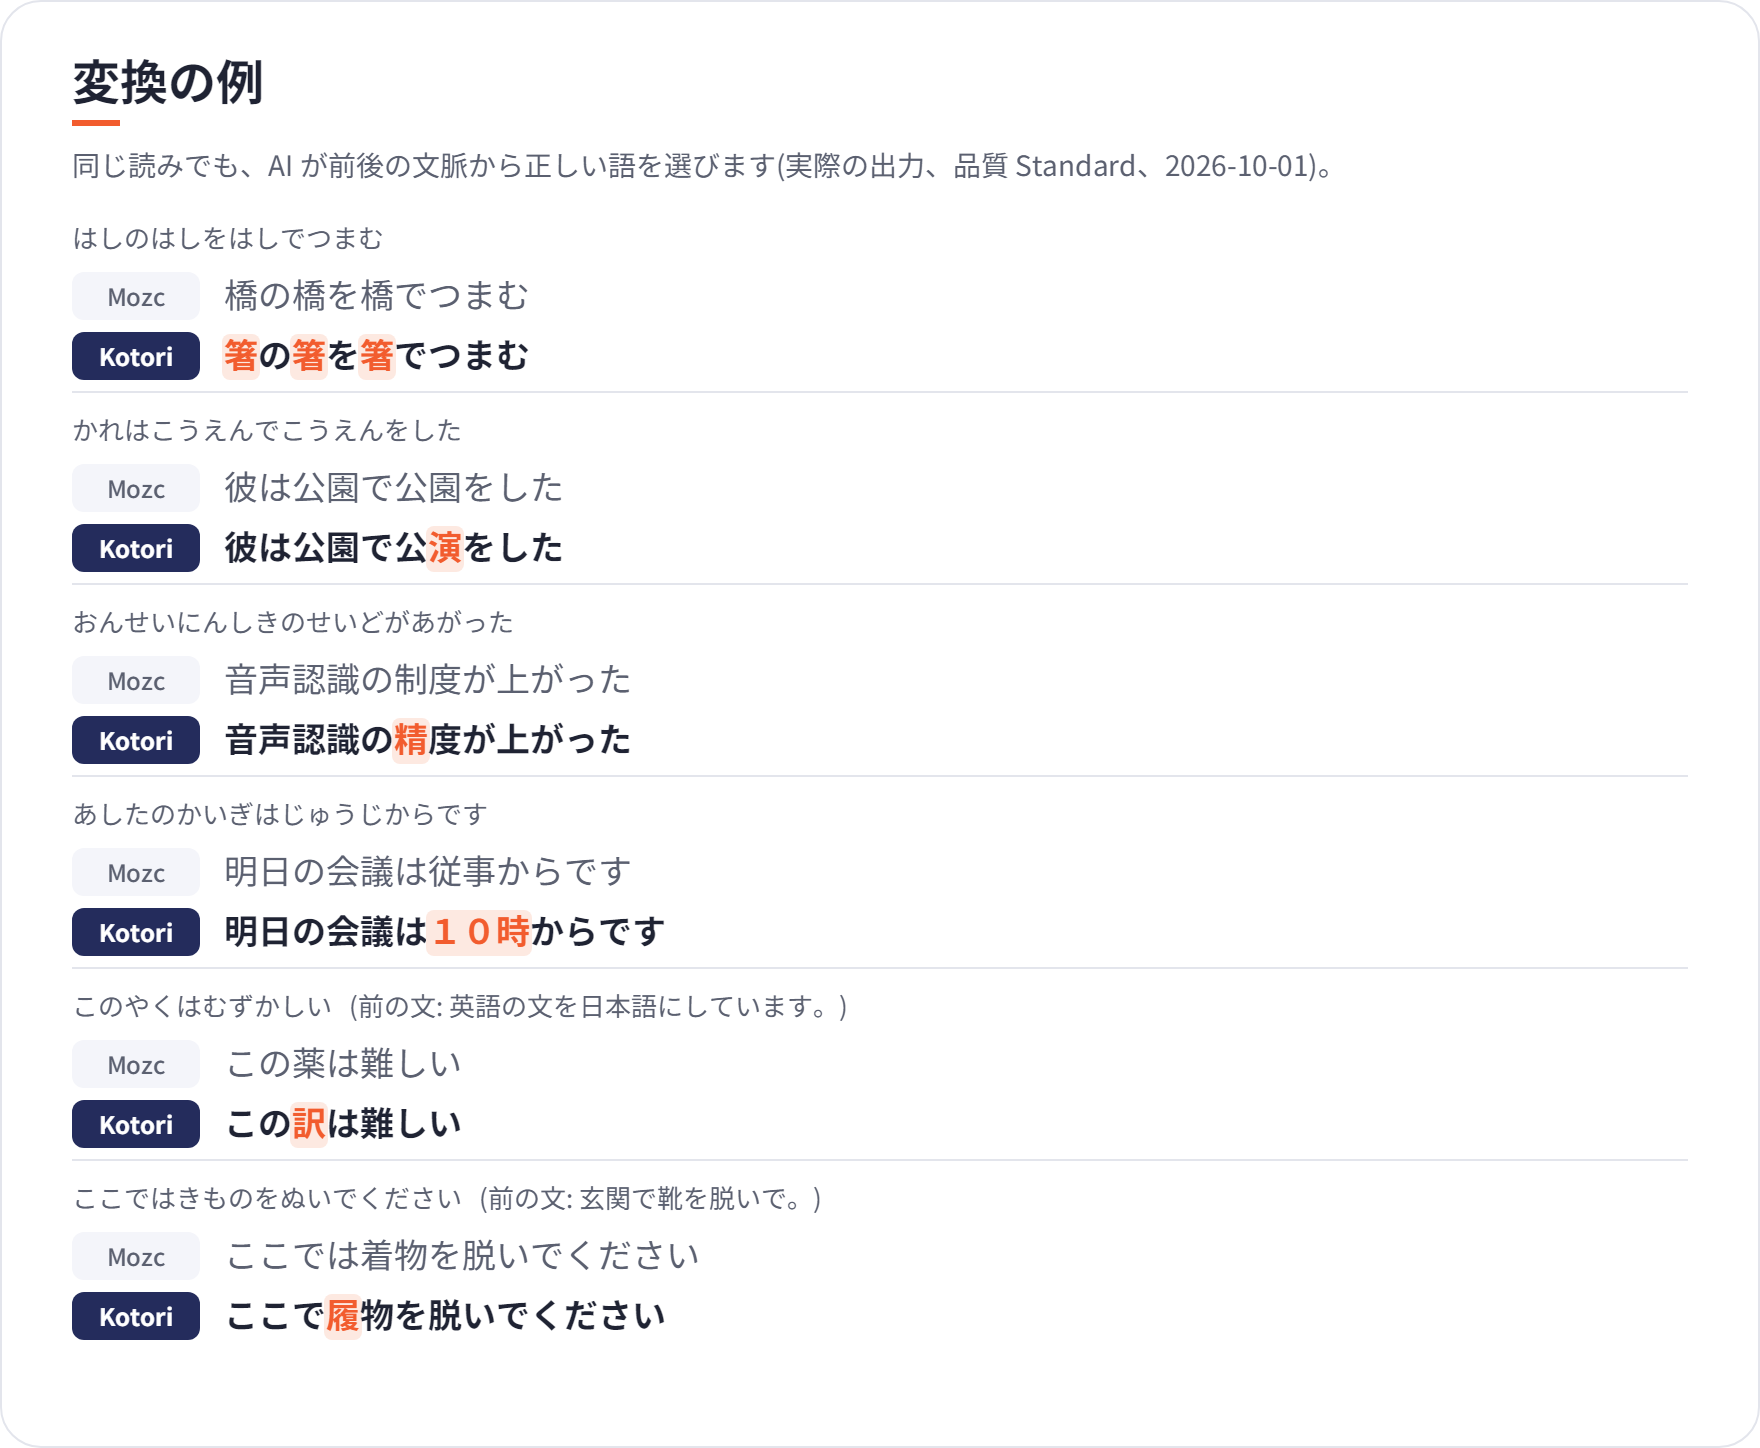
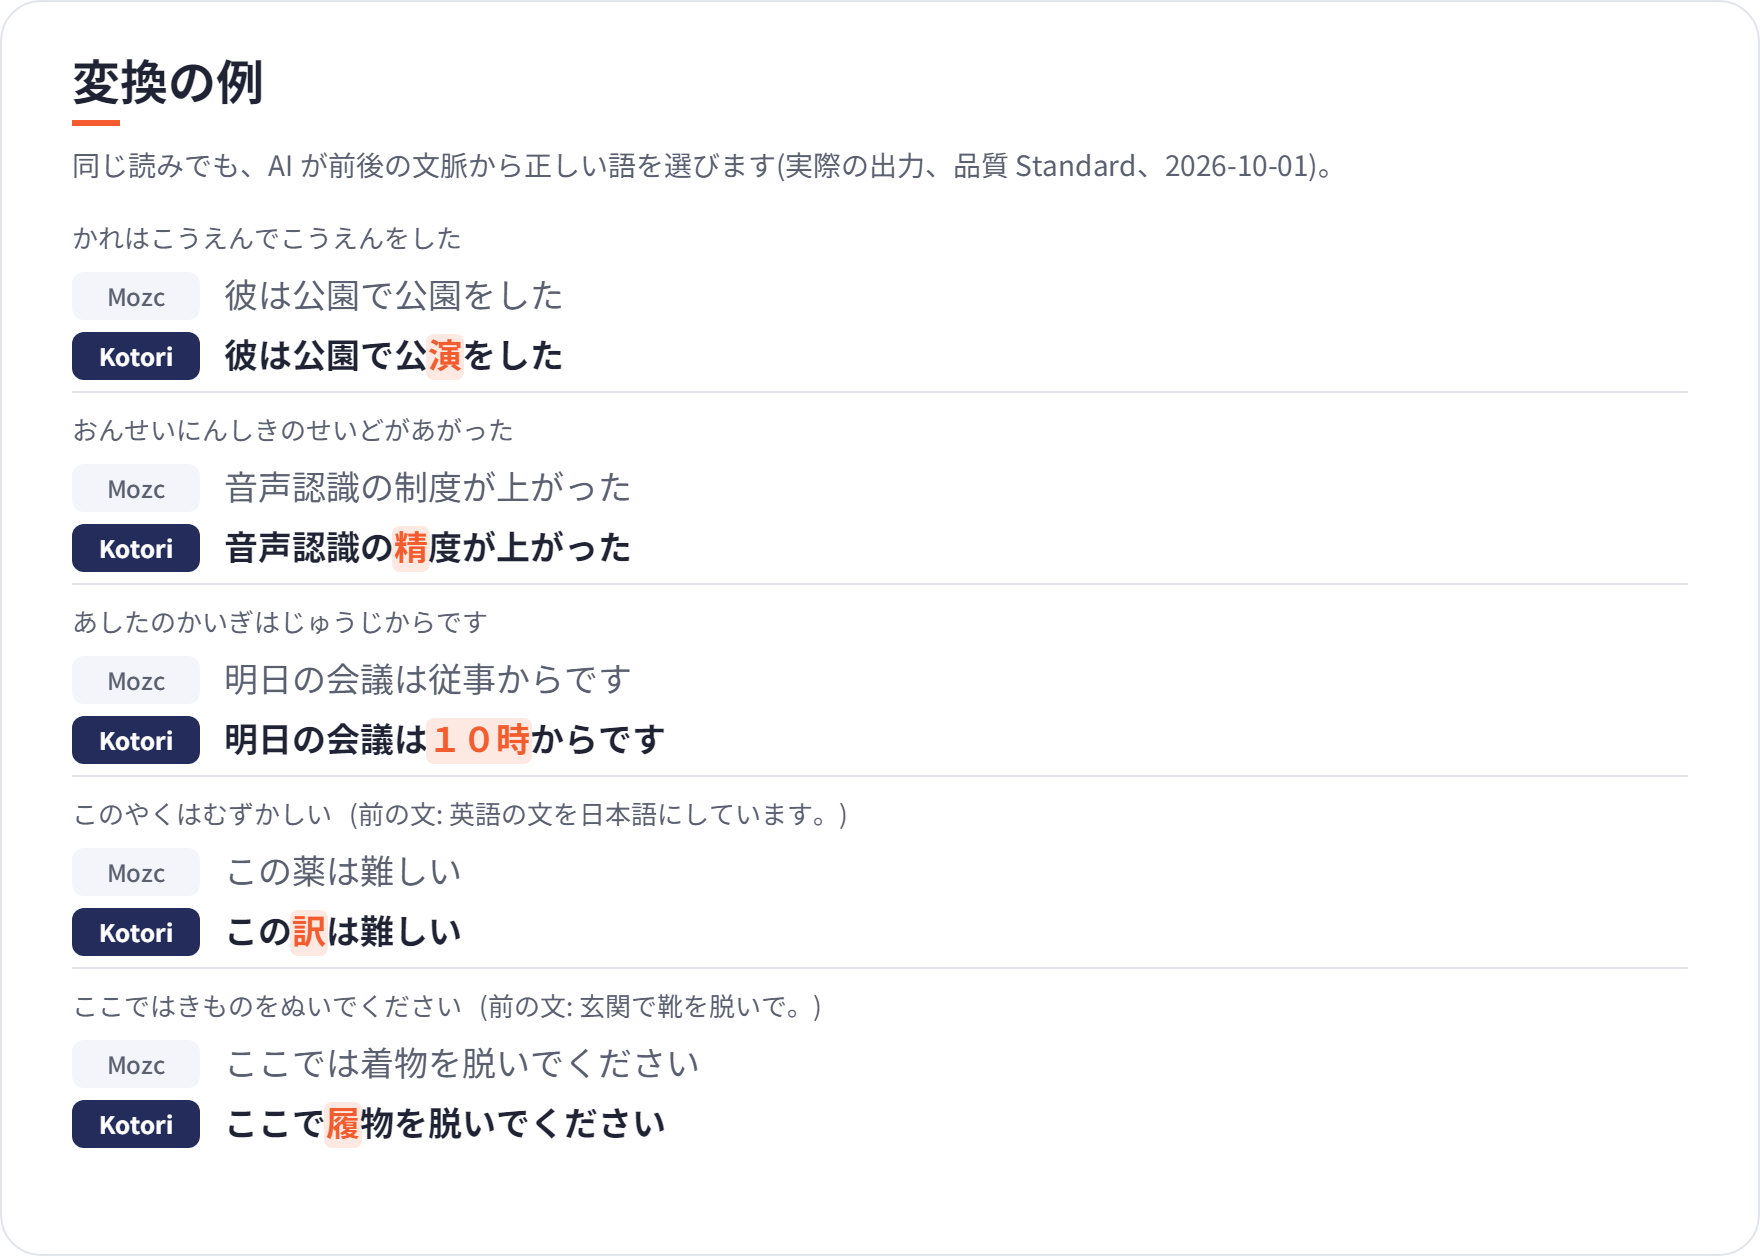
docs(readme): 誤変換だった「箸の箸を箸で」の例を外す
正しくは「箸の端を箸でつまむ」。Kotori の出力も 2 つ目の「端」を誤っていたので、変換の例から外す。

Changed region(s): [[0.0312, 0.0311, 0.75, 0.9315], [0.4375, 0.621, 0.4688, 0.6521]]

diff --git a/docs/images/gen_readme_images.py b/docs/images/gen_readme_images.py
@@ -144,7 +144,6 @@ def features():
 
 def examples():
     rows = [
-        ("はしのはしをはしでつまむ", "", "橋の橋を橋でつまむ", "箸の箸を箸でつまむ"),
         ("かれはこうえんでこうえんをした", "", "彼は公園で公園をした", "彼は公園で公演をした"),
         ("おんせいにんしきのせいどがあがった", "", "音声認識の制度が上がった", "音声認識の精度が上がった"),
         ("あしたのかいぎはじゅうじからです", "", "明日の会議は従事からです", "明日の会議は１０時からです"),

diff --git a/README.md b/README.md
@@ -40,7 +40,7 @@
 
 ## 変換の例
 
-<p align="center"><img src="docs/images/examples.png" alt="変換の例: はしのはしをはしでつまむ → 箸の箸を箸でつまむ、こうえんをした → 公演をした、せいどがあがった → 精度が上がった、じゅうじから → 10時から、このやく → この訳、きものをぬいで → 履物を脱いで" width="880"></p>
+<p align="center"><img src="docs/images/examples.png" alt="変換の例: こうえんをした → 公演をした、せいどがあがった → 精度が上がった、じゅうじから → 10時から、このやく → この訳、きものをぬいで → 履物を脱いで" width="880"></p>
 
 <details>
 <summary>表で見る(コピーできる形)</summary>
@@ -49,7 +49,6 @@
 
 | 読み | 前の文 | Mozc 単体 | Kotori日本語入力 |
 | --- | --- | --- | --- |
-| はしのはしをはしでつまむ | | 橋の橋を橋でつまむ | **箸の箸を箸**でつまむ |
 | かれはこうえんでこうえんをした | | 彼は公園で公園をした | 彼は公園で**公演**をした |
 | おんせいにんしきのせいどがあがった | | 音声認識の制度が上がった | 音声認識の**精度**が上がった |
 | あしたのかいぎはじゅうじからです | | 明日の会議は従事からです | 明日の会議は**１０時**からです |
